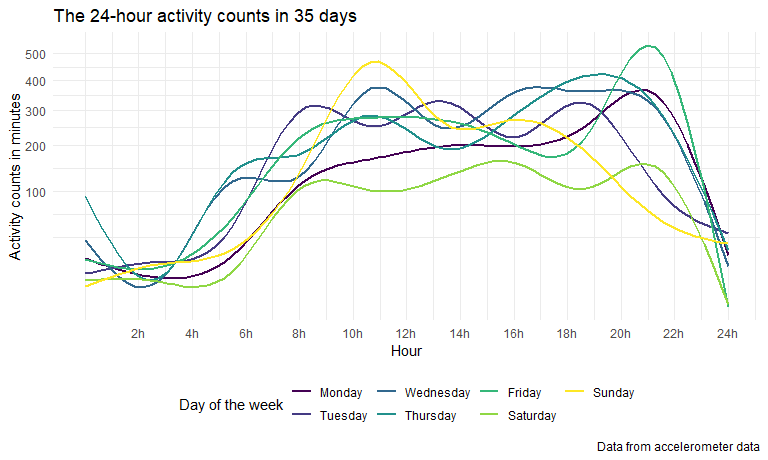
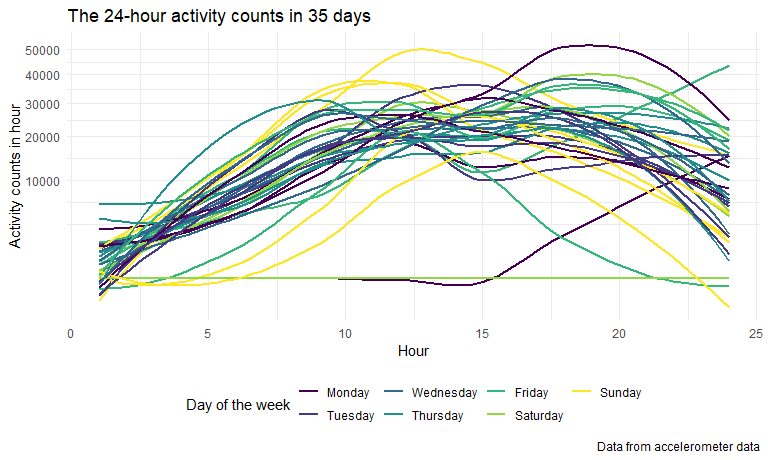
adjust the plot in problem 2

diff --git a/p8105_hw3_lg3156.md b/p8105_hw3_lg3156.md
@@ -7,14 +7,14 @@ Liner Ge
 library(tidyverse)
 ```
 
-    ## -- Attaching packages ----------------------------------------- tidyverse 1.3.0 --
+    ## -- Attaching packages ----------------------------- tidyverse 1.3.0 --
 
     ## √ ggplot2 3.3.2     √ purrr   0.3.4
     ## √ tibble  3.0.3     √ dplyr   1.0.2
     ## √ tidyr   1.1.2     √ stringr 1.4.0
     ## √ readr   1.3.1     √ forcats 0.5.0
 
-    ## -- Conflicts -------------------------------------------- tidyverse_conflicts() --
+    ## -- Conflicts -------------------------------- tidyverse_conflicts() --
     ## x dplyr::filter() masks stats::filter()
     ## x dplyr::lag()    masks stats::lag()
 
@@ -260,14 +260,18 @@ weeks. Thus, I cannot find other trend apparently.
 
 ``` r
 activity_df %>% 
-  ggplot(aes(x = minute, y = counts, color = day)) +
-  geom_smooth(se = F) +
+  mutate(
+    hour = (minute - 1) %/% 60 + 1
+  ) %>% 
+  group_by(day_id, week, day, hour) %>% 
+  summarize(
+    hour_activity_counts = sum(counts)
+  ) %>% 
+  ggplot( aes(x = hour, y = hour_activity_counts, color = day, group = day_id)) +
+  geom_smooth(se = FALSE) + 
   scale_y_continuous(trans = "sqrt",
-                     name = "Activity counts in minutes") +
-  scale_x_continuous(name = "Hour",
-                     breaks = c(120, 240, 360, 480, 600, 720, 840, 960, 1080, 1200, 1320, 1440), 
-                     labels = c("2h", "4h", "6h", "8h", "10h", "12h","14h", "16h", "18h","20h", "22h", "24h")
-                     ) +
+                     name = "Activity counts in hour") +
+  scale_x_continuous(name = "Hour") +
   labs(
     title = "The 24-hour activity counts in 35 days",
     caption = "Data from accelerometer data")+
@@ -275,7 +279,9 @@ activity_df %>%
                                name = "Day of the week")
 ```
 
-    ## `geom_smooth()` using method = 'gam' and formula 'y ~ s(x, bs = "cs")'
+    ## `summarise()` regrouping output by 'day_id', 'week', 'day' (override with `.groups` argument)
+
+    ## `geom_smooth()` using method = 'loess' and formula 'y ~ x'
 
 <img src="p8105_hw3_lg3156_files/figure-gfm/unnamed-chunk-8-1.png" width="90%" />
 
